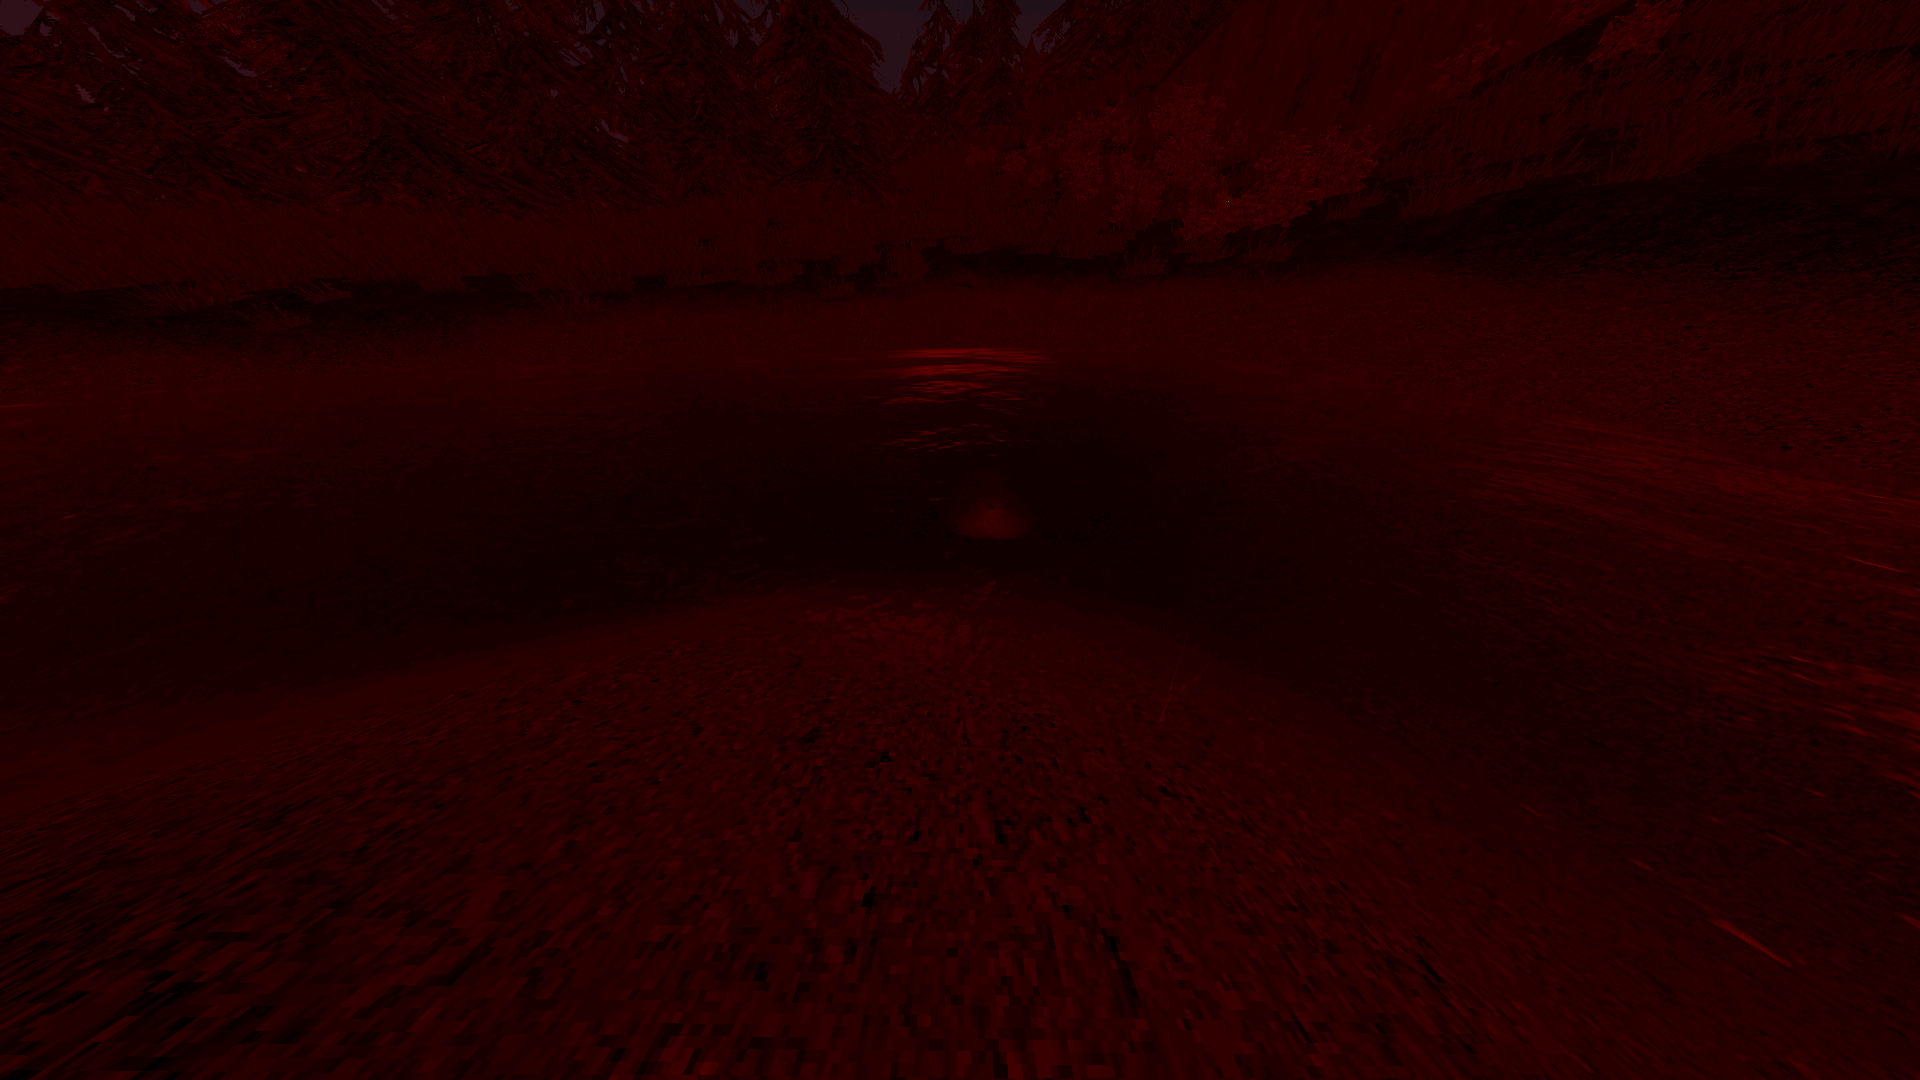
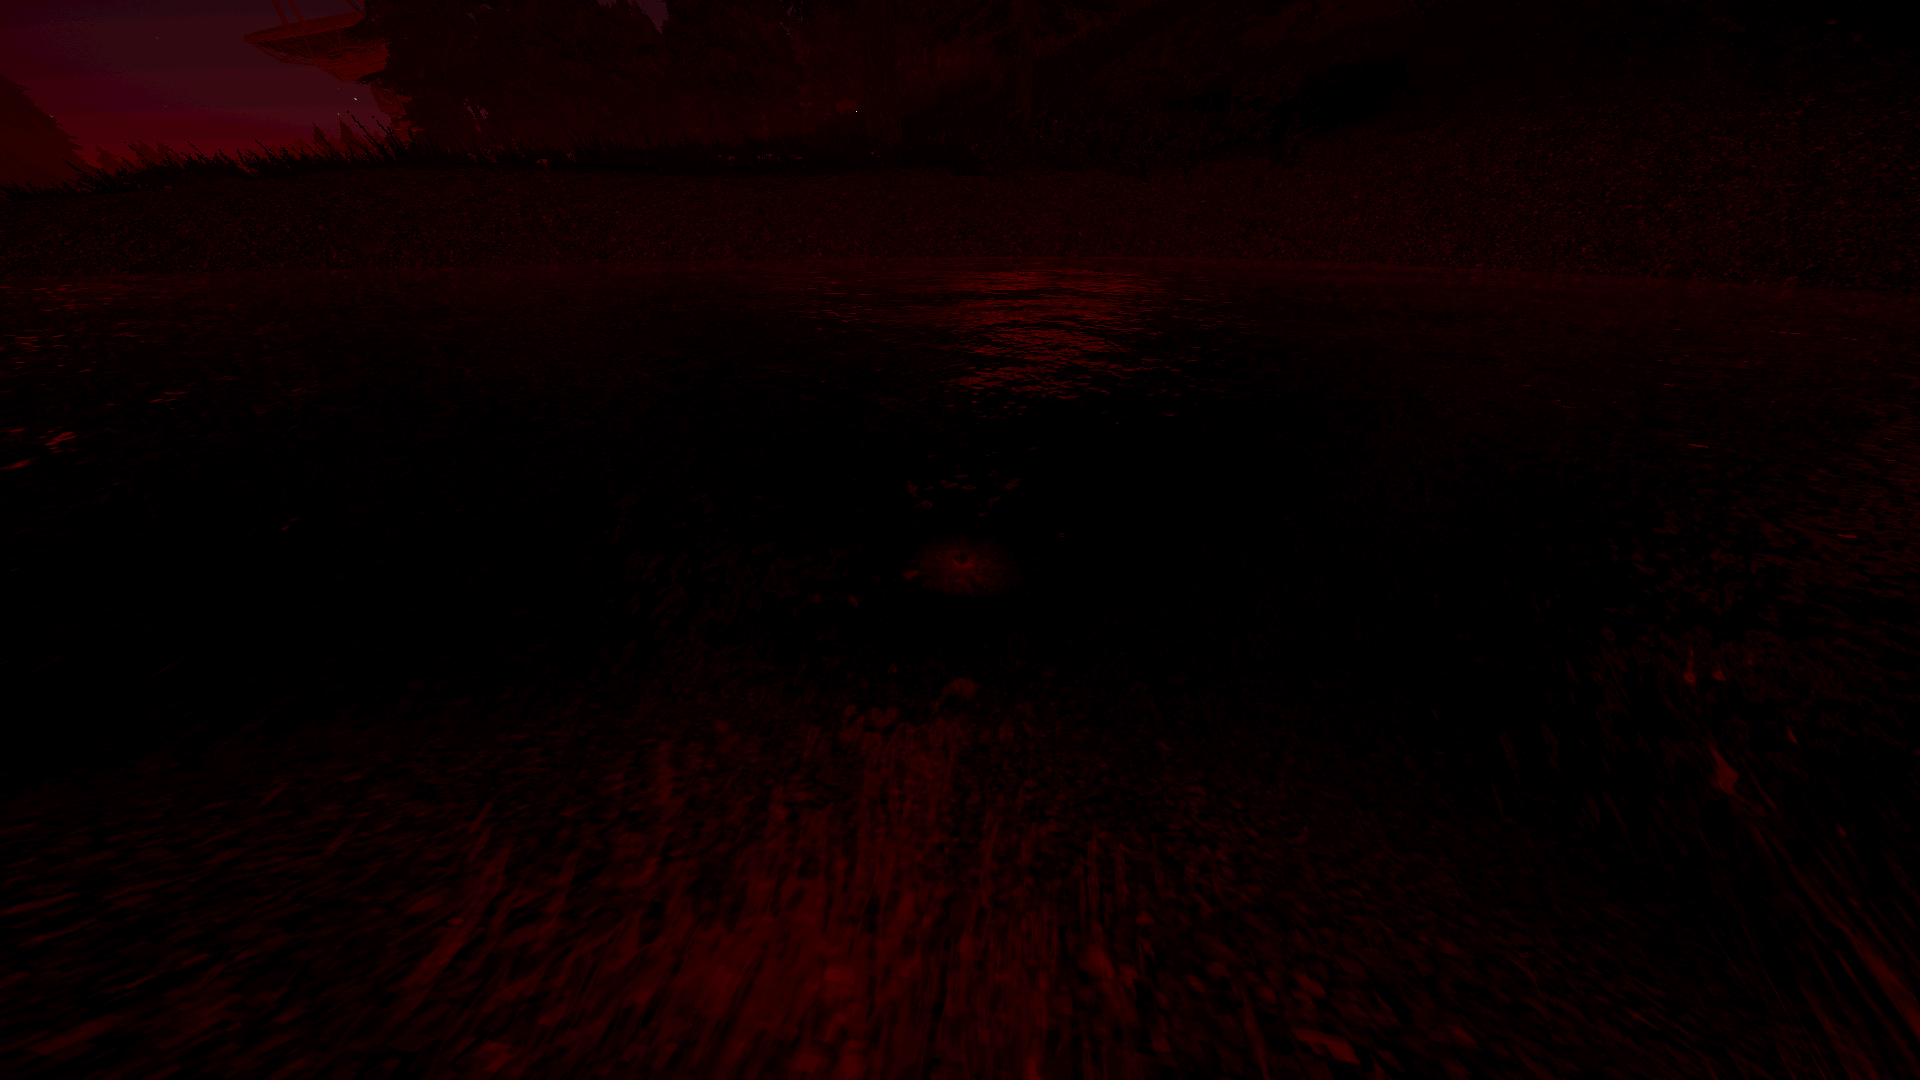
pumpkins

diff --git a/points.js b/points.js
@@ -796,136 +796,136 @@ const points = [
         "yPos": -480.1
     },
     // Halloween Pumpkins
-    // {
-    //     "name": "Pumpkin",
-    //     "description": "Exclusive to the Halloween gamemode.<br><br>In front of the console.",
-    //     "related_images" : ['./images/pumpkin0_0.png'],
-    //     "category": "Halloween Pumpkins",
-    //     "icon": "./icons/pumpkin.png",
-    //     "positioning": "positioned_on_top",
-    //     "xPos": 6.7,
-    //     "yPos": -0.2
-    // },
-    // {
-    //     "name": "Pumpkin",
-    //     "description": "Exclusive to the Halloween gamemode.<br><br>Hidden in the pile of crates.",
-    //     "related_images" : ['./images/pumpkin1_0.png', './images/pumpkin1_1.png'],
-    //     "category": "Halloween Pumpkins",
-    //     "icon": "./icons/pumpkin.png",
-    //     "positioning": "positioned_on_top",
-    //     "xPos": -6,
-    //     "yPos": 10.7
-    // },
-    // {
-    //     "name": "Pumpkin",
-    //     "description": "Exclusive to the Halloween gamemode.<br><br>On top of the truss of the bridge.",
-    //     "related_images" : ['./images/pumpkin2_0.png'],
-    //     "category": "Halloween Pumpkins",
-    //     "icon": "./icons/pumpkin.png",
-    //     "positioning": "positioned_on_top",
-    //     "xPos": -64.7,
-    //     "yPos": 7.5
-    // },
-    // {
-    //     "name": "Pumpkin",
-    //     "description": "Exclusive to the Halloween gamemode.<br><br>On the roof of the base, above the garage.",
-    //     "related_images" : ['./images/pumpkin3_0.png'],
-    //     "category": "Halloween Pumpkins",
-    //     "icon": "./icons/pumpkin.png",
-    //     "positioning": "positioned_on_top",
-    //     "xPos": 10.2,
-    //     "yPos": 20.2
-    // },
-    // {
-    //     "name": "Pumpkin",
-    //     "description": "Exclusive to the Halloween gamemode.<br><br>On top of a pole. Good luck. Maybe try stacking some boxes.",
-    //     "related_images" : ['./images/pumpkin4_0.png'],
-    //     "category": "Halloween Pumpkins",
-    //     "icon": "./icons/pumpkin.png",
-    //     "positioning": "positioned_on_top",
-    //     "xPos": 30,
-    //     "yPos": -13
-    // },
-    // {
-    //     "name": "Pumpkin",
-    //     "description": "Exclusive to the Halloween gamemode.<br><br>Resting beside a boulder.",
-    //     "related_images" : ['./images/pumpkin5_0.png'],
-    //     "category": "Halloween Pumpkins",
-    //     "icon": "./icons/pumpkin.png",
-    //     "positioning": "positioned_on_top",
-    //     "xPos": 265.6,
-    //     "yPos": -6.7
-    // },
-    // {
-    //     "name": "Pumpkin",
-    //     "description": "Exclusive to the Halloween gamemode.<br><br>At the bottom of the river.",
-    //     "related_images" : ['./images/pumpkin6_0.png', './images/pumpkin6_1.png'],
-    //     "category": "Halloween Pumpkins",
-    //     "icon": "./icons/pumpkin.png",
-    //     "positioning": "positioned_on_top",
-    //     "xPos": 175.9,
-    //     "yPos": -126.2
-    // },
-    // {
-    //     "name": "Pumpkin",
-    //     "description": "Exclusive to the Halloween gamemode.<br><br>On top of the hill.",
-    //     "related_images" : ['./images/pumpkin7_0.png'],
-    //     "category": "Halloween Pumpkins",
-    //     "icon": "./icons/pumpkin.png",
-    //     "positioning": "positioned_on_top",
-    //     "xPos": -192.5,
-    //     "yPos": -238.7
-    // },
-    // {
-    //     "name": "Pumpkin",
-    //     "description": "Exclusive to the Halloween gamemode.<br><br>Behind the top room of Juliett. Crouch under the railing to access.",
-    //     "related_images" : ['./images/pumpkin8_0.png', './images/pumpkin8_1.png'],
-    //     "category": "Halloween Pumpkins",
-    //     "icon": "./icons/pumpkin.png",
-    //     "positioning": "positioned_on_top",
-    //     "xPos": -103.3,
-    //     "yPos": 199.5
-    // },
-    // {
-    //     "name": "Pumpkin",
-    //     "description": "Exclusive to the Halloween gamemode.<br><br>On the base of Whiskey.",
-    //     "related_images" : ['./images/pumpkin9_0.png', './images/pumpkin9_1.png'],
-    //     "category": "Halloween Pumpkins",
-    //     "icon": "./icons/pumpkin.png",
-    //     "positioning": "positioned_on_top",
-    //     "xPos": 2.5,
-    //     "yPos": 503.5
-    // },
-    // {
-    //     "name": "Pumpkin",
-    //     "description": "Exclusive to the Halloween gamemode.<br><br>On the road leading up to Victor.",
-    //     "related_images" : ['./images/pumpkin10_0.png'],
-    //     "category": "Halloween Pumpkins",
-    //     "icon": "./icons/pumpkin.png",
-    //     "positioning": "positioned_on_top",
-    //     "xPos": 465.8,
-    //     "yPos": 513.9
-    // },
-    // {
-    //     "name": "Pumpkin",
-    //     "description": "Exclusive to the Halloween gamemode.<br><br>On the border wall.",
-    //     "related_images" : ['./images/pumpkin11_0.png', './images/pumpkin11_1.png'],
-    //     "category": "Halloween Pumpkins",
-    //     "icon": "./icons/pumpkin.png",
-    //     "positioning": "positioned_on_top",
-    //     "xPos": 534,
-    //     "yPos": -699.2
-    // },
-    // {
-    //     "name": "Pumpkin",
-    //     "description": "Exclusive to the Halloween gamemode.<br><br>At the checkpoint, next to where you spawn in.",
-    //     "related_images" : ['./images/pumpkin12_0.png'],
-    //     "category": "Halloween Pumpkins",
-    //     "icon": "./icons/pumpkin.png",
-    //     "positioning": "positioned_on_top",
-    //     "xPos": -382,
-    //     "yPos": 695.75
-    // },
+    {
+        "name": "Pumpkin",
+        "description": "Exclusive to the Halloween gamemode.<br><br>Outside the front door.",
+        "related_images" : ['./images/pumpkin0_0.png'],
+        "category": "Halloween Pumpkins",
+        "icon": "./icons/pumpkin.png",
+        "positioning": "positioned_on_top",
+        "xPos": 6.8,
+        "yPos": -0.2
+    },
+    {
+        "name": "Pumpkin",
+        "description": "Exclusive to the Halloween gamemode.<br><br>Hidden in a locker close to the front door.",
+        "related_images" : ['./images/pumpkin1_0.png'],
+        "category": "Halloween Pumpkins",
+        "icon": "./icons/pumpkin.png",
+        "positioning": "positioned_on_top",
+        "xPos": -6.1,
+        "yPos": 10.7
+    },
+    {
+        "name": "Pumpkin",
+        "description": "Exclusive to the Halloween gamemode.<br><br>Spawns in the middle of the air and falls into the river.",
+        "related_images" : [],
+        "category": "Halloween Pumpkins",
+        "icon": "./icons/pumpkin.png",
+        "positioning": "positioned_on_top",
+        "xPos": -64.7,
+        "yPos": 7.5
+    },
+    {
+        "name": "Pumpkin",
+        "description": "Exclusive to the Halloween gamemode.<br><br>On the parking lot.",
+        "related_images" : ['./images/pumpkin3_0.png'],
+        "category": "Halloween Pumpkins",
+        "icon": "./icons/pumpkin.png",
+        "positioning": "positioned_on_top",
+        "xPos": 10.2,
+        "yPos": 20.2
+    },
+    {
+        "name": "Pumpkin",
+        "description": "Exclusive to the Halloween gamemode.<br><br>On top of a pole. Good luck. Maybe try stacking some boxes.",
+        "related_images" : ['./images/pumpkin4_0.png'],
+        "category": "Halloween Pumpkins",
+        "icon": "./icons/pumpkin.png",
+        "positioning": "positioned_on_top",
+        "xPos": 30,
+        "yPos": -13
+    },
+    {
+        "name": "Pumpkin",
+        "description": "Exclusive to the Halloween gamemode.<br><br>Resting beside a boulder.",
+        "related_images" : ['./images/pumpkin5_0.png', './images/pumpkin5_1.png'],
+        "category": "Halloween Pumpkins",
+        "icon": "./icons/pumpkin.png",
+        "positioning": "positioned_on_top",
+        "xPos": 265.6,
+        "yPos": -6.7
+    },
+    {
+        "name": "Pumpkin",
+        "description": "Exclusive to the Halloween gamemode.<br><br>At the bottom of the river.",
+        "related_images" : ['./images/pumpkin6_0.png', './images/pumpkin6_1.png'],
+        "category": "Halloween Pumpkins",
+        "icon": "./icons/pumpkin.png",
+        "positioning": "positioned_on_top",
+        "xPos": 175.9,
+        "yPos": -126.2
+    },
+    {
+        "name": "Pumpkin",
+        "description": "Exclusive to the Halloween gamemode.<br><br>On top of the hill.",
+        "related_images" : ['./images/pumpkin7_0.png'],
+        "category": "Halloween Pumpkins",
+        "icon": "./icons/pumpkin.png",
+        "positioning": "positioned_on_top",
+        "xPos": -191.6,
+        "yPos": -238.2
+    },
+    {
+        "name": "Pumpkin",
+        "description": "Exclusive to the Halloween gamemode.<br><br>Behind the top room of Juliett. Crouch under the railing to access.",
+        "related_images" : ['./images/pumpkin8_0.png', './images/pumpkin8_1.png'],
+        "category": "Halloween Pumpkins",
+        "icon": "./icons/pumpkin.png",
+        "positioning": "positioned_on_top",
+        "xPos": -103.3,
+        "yPos": 199.5
+    },
+    {
+        "name": "Pumpkin",
+        "description": "Exclusive to the Halloween gamemode.<br><br>On the base of Whiskey.",
+        "related_images" : ['./images/pumpkin9_0.png', './images/pumpkin9_1.png'],
+        "category": "Halloween Pumpkins",
+        "icon": "./icons/pumpkin.png",
+        "positioning": "positioned_on_top",
+        "xPos": 2.5,
+        "yPos": 503.5
+    },
+    {
+        "name": "Pumpkin",
+        "description": "Exclusive to the Halloween gamemode.<br><br>On the road leading up to Victor.",
+        "related_images" : ['./images/pumpkin10_0.png'],
+        "category": "Halloween Pumpkins",
+        "icon": "./icons/pumpkin.png",
+        "positioning": "positioned_on_top",
+        "xPos": 465.8,
+        "yPos": 513.9
+    },
+    {
+        "name": "Pumpkin",
+        "description": "Exclusive to the Halloween gamemode.<br><br>On the border wall.",
+        "related_images" : ['./images/pumpkin11_0.png', './images/pumpkin11_1.png'],
+        "category": "Halloween Pumpkins",
+        "icon": "./icons/pumpkin.png",
+        "positioning": "positioned_on_top",
+        "xPos": 534,
+        "yPos": -699.2
+    },
+    {
+        "name": "Pumpkin",
+        "description": "Exclusive to the Halloween gamemode.<br><br>At the checkpoint, next to where you spawn in.",
+        "related_images" : ['./images/pumpkin12_0.png'],
+        "category": "Halloween Pumpkins",
+        "icon": "./icons/pumpkin.png",
+        "positioning": "positioned_on_top",
+        "xPos": -382,
+        "yPos": 695.75
+    },
     // Items of interest
     {
         "name": "Shovel",

diff --git a/changelog.html b/changelog.html
@@ -103,7 +103,9 @@ Now for another important message: There are no definitive plans yet, but I am l
 I am also contemplating moving all image files to the webp format so that they load better and faster without taking up too much bandwidth.<br>
 Also, sidenote, but the drive that was removed in commit <a href="https://github.com/Questwalker/votv-map/commit/720f7906933033a154398f74f218ff8788ec5e89">720f790</a> has been moved to an accessible location now, so I've restored it with a new icon and description!<br>
 Also also, I might look at some javascript libraries so I can make a better changelog page too.<br>
-Also also <i>also</i>, I am hoping to implement some sort of localstorage system soon, so that what points are shown and hidden is saved even when the page is reloaded. Hopefully I'll be able to expand this later on to save various settings and stuff. 
+Also also <i>also</i>, I am hoping to implement some sort of localstorage system soon, so that what points are shown and hidden is saved even when the page is reloaded. Hopefully I'll be able to expand this later on to save various settings and stuff.<br><br>
+
+<span class="time">8/19/2024 1724118419845</span>: Re-added the Halloween pumpkins, and updated all the images for them all.
 
 <br><br><hr>
 Features/bugs to add/fix:<br>

diff --git a/map_points.js b/map_points.js
@@ -184,6 +184,6 @@ lines.forEach((data, lineindex) => {
 // TODO: jesus christ make a better way of doing this
 
 hideCategory(references.category_chicken_burgers['70'].entry)
-
+hideCategory(references.category_halloween_pumpkins['80'].entry)
 
 // console.log(references)
